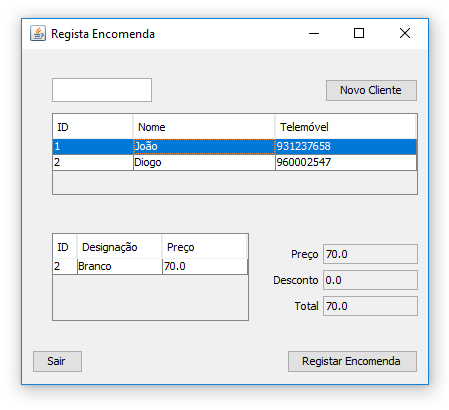
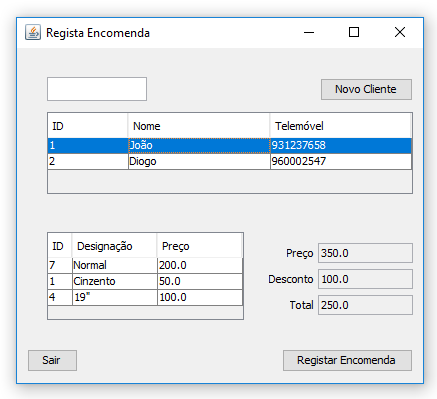
FIX - complementares

Changed region(s): [[0.0297, 0.0301, 0.9817, 0.9925], [0.0892, 0.5414, 0.5652, 0.812]]

diff --git a/ConfiguraFacil/src/presentation/ConfiguracaoFrame.java b/ConfiguraFacil/src/presentation/ConfiguracaoFrame.java
@@ -197,6 +197,19 @@ public class ConfiguracaoFrame extends javax.swing.JFrame {
     }
 
 
+    private void updateSelectionsComplementares(List<Componente> complementares){
+        for(Componente c : complementares){
+            int tipo = c.getTipo() - 1;
+
+            for(int i = 0; i < this.selections[tipo].comps.size(); i++){
+                Componente c_tipo = this.selections[tipo].comps.get(i);
+                if(c.getID() == c_tipo.getID()){
+                    this.selections[tipo].selected = i + 1;
+                    break;
+                }
+            }
+        }
+    }
 
     private void cmp_tblMouseClicked(MouseEvent e) {
         int tipo = type_list.getSelectedIndex();
@@ -243,7 +256,7 @@ public class ConfiguracaoFrame extends javax.swing.JFrame {
                 opt = complementaresErrorMessage(nova_componente, complementares);
 
                 if (opt == JOptionPane.YES_OPTION ){
-
+                    updateSelectionsComplementares(complementares);
                 }
                 else if(opt == JOptionPane.NO_OPTION){
                     this.selections[tipo].selected = 0;
